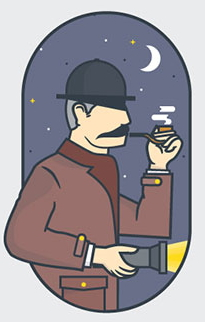
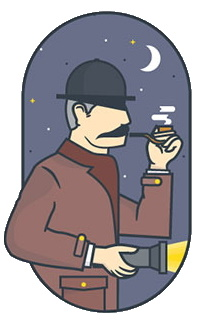
Removed grey background from image, and background colors from elements

diff --git a/index.html b/index.html
@@ -7,15 +7,15 @@
     <title>Šerlokas</title>
 </head>
 <body>
-   <div style="width:45%; height:auto; margin-left: 25%; margin-top:10%;  display:inline-block; background-color: #c1e0d6; ">
-   <img src="serlokas.jpg"  alt="Šerlokas rūkantis pypkę" style="width:270px; display: inline-block; float:left">
-    <div style="width: 40%; display: inline-block; float:right;  margin-top: 5%; background-color: rgb(208, 240, 255);">
-        <h1 style="font-size:  4.5em">404</h1>
-        <p style="font-style: italic; font-size: 1.2em;">Lorem ipsum dolor sit amet consectetur adipisicing elit. Earum, magnam.</p>
-        <p style="font-weight: bold; margin-bottom: 5%;">Lorem ipsum dolor sit amet consectetur adipisicing.</p>
-        <a style="text-decoration: none; display: inline-block; padding: 10px 20px; background-color:rgb(56, 55, 71); color:cornsilk " href="#" target="_self">Back</a>
-    </div>
+   <div style="width:50%; height:auto; margin-left: 25%; margin-top:10%;  display:inline-block">
+        <img src="serlokas.jpg"  alt="Šerlokas rūkantis pypkę" style="width:40%; display: inline-block; float:left">
+        <div style="width: 50%; display: inline-block; float:right;  margin-top: 5%; ">
+            <h1 style="font-size:  4.5em; margin-left: 35%">404</h1>
+            <p style="font-style: italic; font-size: 1.2em; margin-left: 7%">Lorem Lorem ipsum dolor sit amet consectetur adipisicing elit. Earum,ipsum dolor sit amet consectetur magnam.</p>
+            <p style="font-weight: bold; margin-bottom: 5%; margin-left: 5%">Lorem ipsum dolor sit amet consectetur adipisicing.</p>
+            <a style="width: 19%; text-decoration: none; display: inline-block; margin-left: 35%; padding: 10px 20px; background-color:rgb(56, 55, 71); color:cornsilk " href="#" target="_self">Back home</a>
+        </div>
    </div>
-
+ 
 </body>
 </html>
